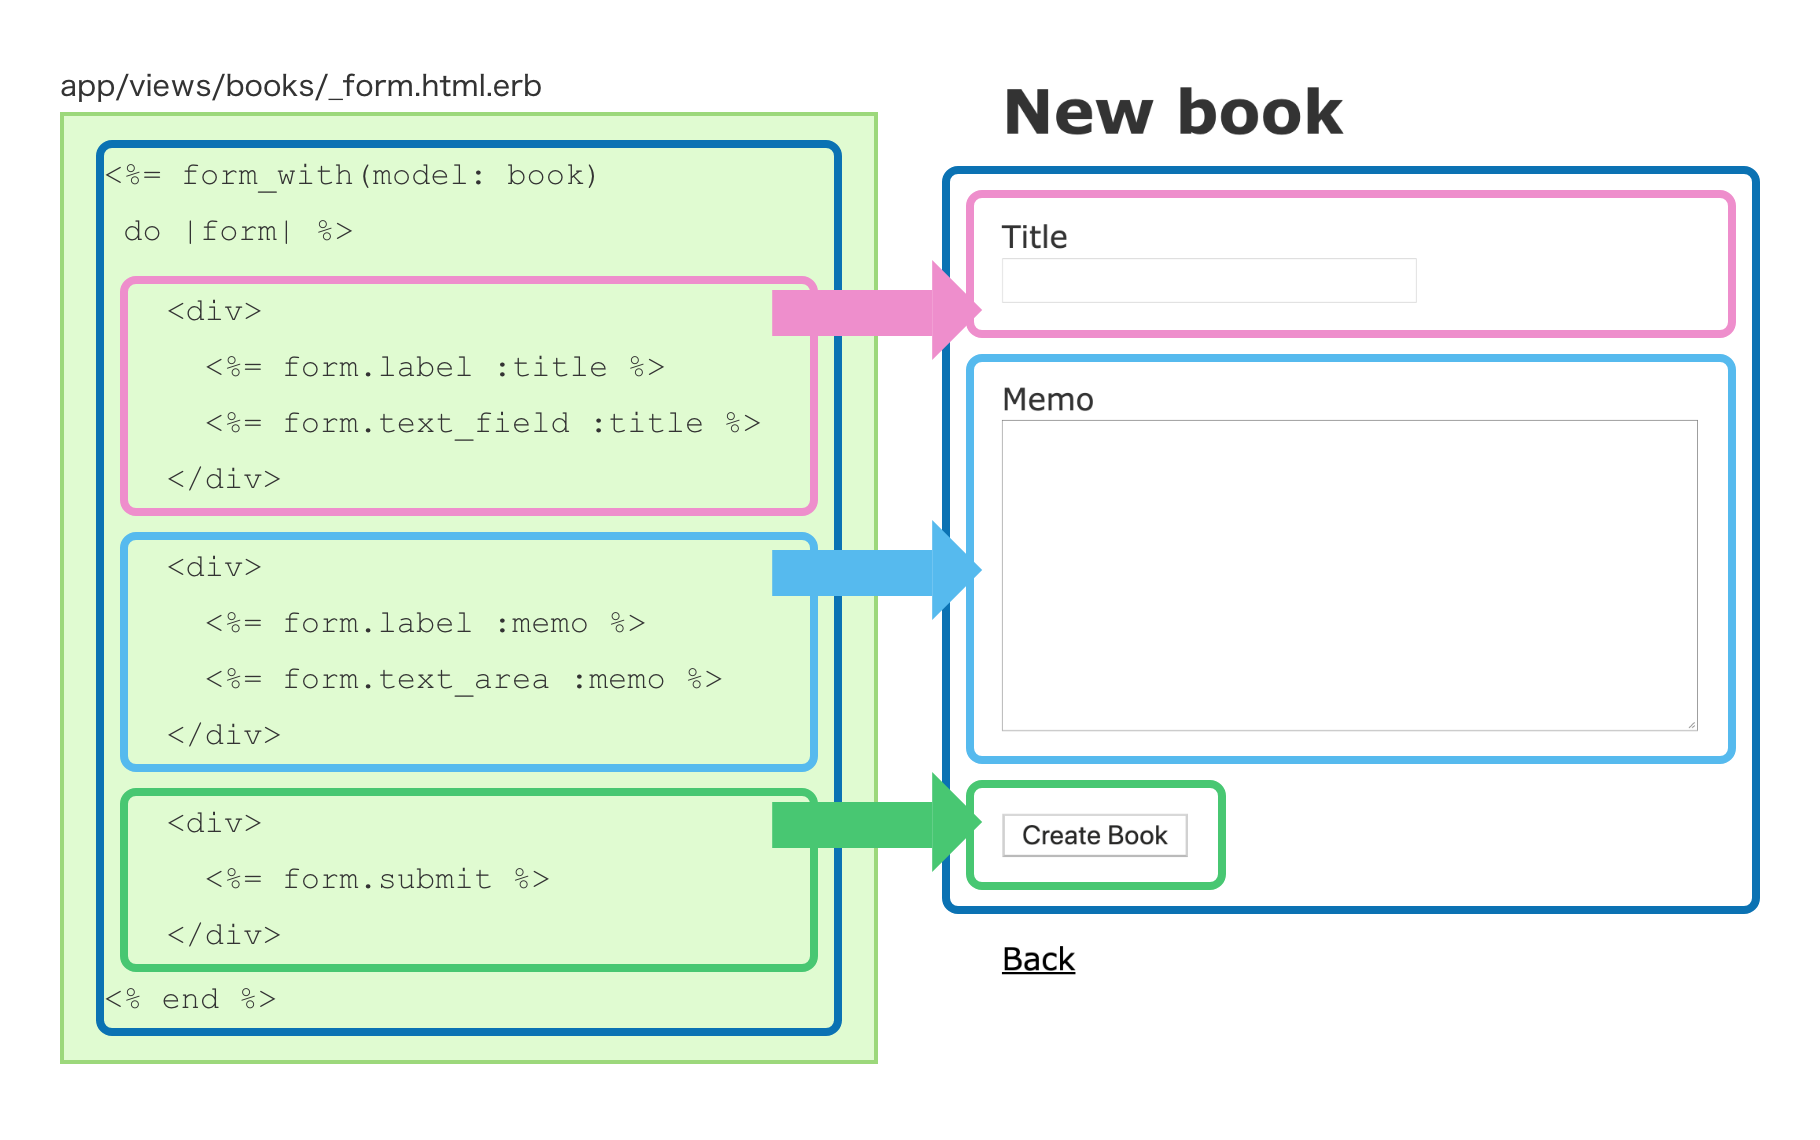
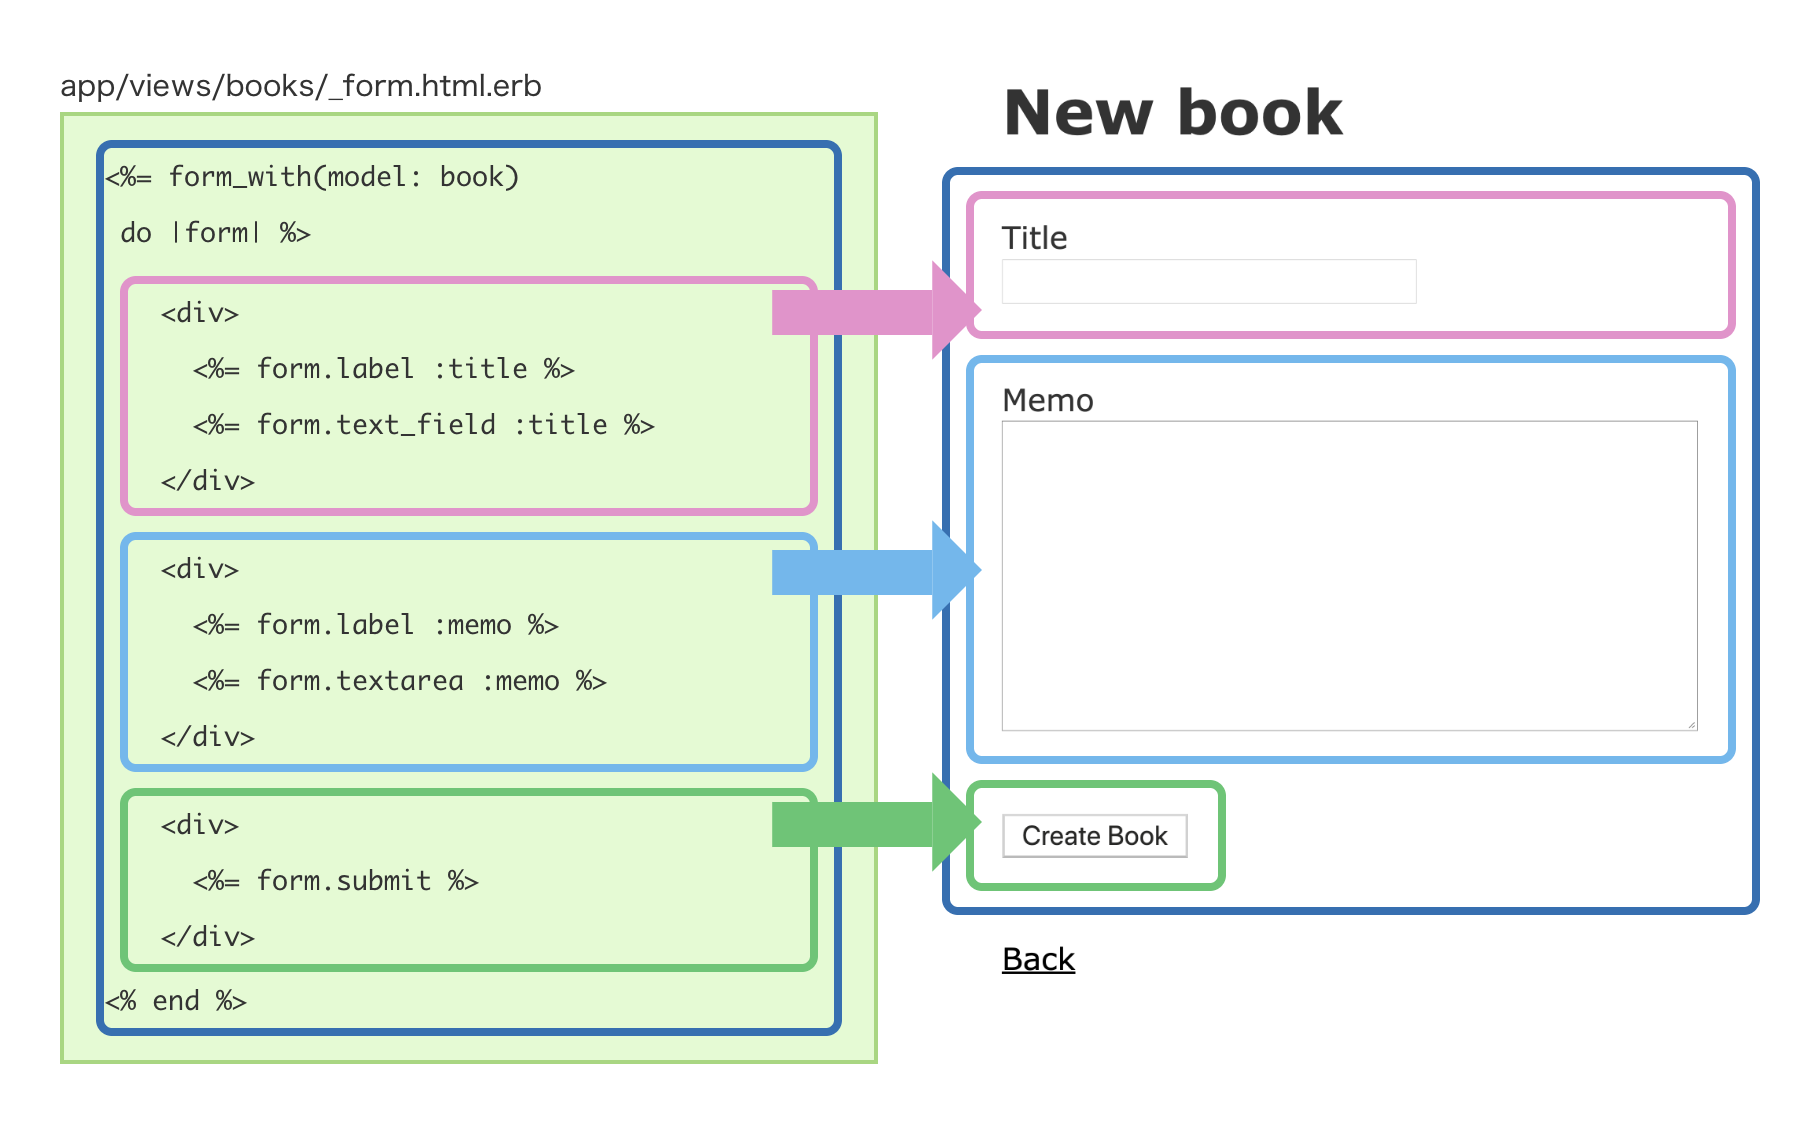
Version up to Rails8.0 in Chapter 4

diff --git a/_figures/assets/new-create/new_routes.html b/_figures/assets/new-create/new_routes.html
@@ -6,43 +6,45 @@
   <link rel="stylesheet" href="../css/style.css">
 </head>
 <body>
-<div class="wrapper">
+<div class="wrapper is-wide">
 
-<table id='route_table' class='route_table'>
-    <thead>
-      <tr>
-        <th>Helper</th>
-        <th>HTTP Verb</th>
-        <th>Path</th>
-        <th>Controller#Action</th>
-      </tr>
-      <tr class='bottom'>
-        <th>        <a data-route-helper="_path" title="Returns a relative path (without the http or domain)" href="#">Path</a> /
-          <a data-route-helper="_url" title="Returns an absolute url (with the http and domain)" href="#">Url</a>
-        </th>
-        <th>      </th>
-        <th>        <input id="search" placeholder="Path Match" type="search" name="path[]" />
-        </th>
-        <th>      </th>
-      </tr>
-    </thead>
-    <tbody class='exact_matches' id='exact_matches'>
-    </tbody>
-    <tbody class='fuzzy_matches' id='fuzzy_matches'>
-    </tbody>
-    <tbody>
-      <tr class='route_row' data-helper='path'>
+<table id='route_table' class='route_table with-margin'>
+  <thead>
+    <tr>
+      <th>Helper
+        (<a data-route-helper="_path" title="Returns a relative path (without the http or domain)" href="#">Path</a> /
+        <a data-route-helper="_url" title="Returns an absolute URL (with the http and domain)" href="#">Url</a>)
+      </th>
+      <th>HTTP Verb</th>
+      <th>Path</th>
+      <th>Controller#Action</th>
+      <th>Source Location</th>
+    </tr>
+    <tr class='bottom'>
+      <th colspan="5" id="search_container"><input id="search" placeholder="Search" type="search" name="query[]" style="width:98%;">
+      </th>
+    </tr>
+  </thead>
+  <tbody class='exact_matches' id='exact_matches'>
+  </tbody>
+  <tbody class='fuzzy_matches' id='fuzzy_matches'>
+  </tbody>
+  <tbody>
+    <tr class='route_row' data-helper='path'>
       <td data-route-name='books'>
-          books<span class='helper'>_path</span>
+        books_path
       </td>
-      <td>
+      <td class="with-description">
         GET
       </td>
-      <td data-route-path='/books(.:format)'>
+      <td data-route-path='/books(.:format)' class="with-description">
         /books(.:format)
       </td>
-      <td>
+      <td class="with-description">
         <p>books#index</p>
+      </td>
+      <td>
+        /Users/igaiga/books_app/config/routes.rb:2
       </td>
     </tr>
     <tr class='route_row' data-helper='path'>
@@ -57,13 +59,16 @@
       <td>
         <p>books#create</p>
       </td>
+      <td>
+        /Users/igaiga/books_app/config/routes.rb:2
+      </td>
     </tr>
     <tr class='route_row' data-helper='path'>
       <td data-route-name='new_book'>
-          new_book<span class='helper'>_path</span>
+        new_book_path
       </td>
       <td>
-          <span class="text__underline">GET</span>
+        <span class="text__underline">GET</span>
       </td>
       <td data-route-path='/books/new(.:format)'>
         <span class="text__underline">/books/new(.:format)</span>
@@ -71,10 +76,13 @@
       <td>
         <p><span class="text__underline">books#new</span></p>
       </td>
+      <td>
+        /Users/igaiga/books_app/config/routes.rb:2
+      </td>
     </tr>
     <tr class='route_row' data-helper='path'>
       <td data-route-name='edit_book'>
-          edit_book<span class='helper'>_path</span>
+        edit_book<span class='helper'>_path</span>
       </td>
       <td>
         GET
@@ -85,10 +93,13 @@
       <td>
         <p>books#edit</p>
       </td>
+      <td>
+        /Users/igaiga/books_app/config/routes.rb:2
+      </td>
     </tr>
     <tr class='route_row' data-helper='path'>
       <td data-route-name='book'>
-          book<span class='helper'>_path</span>
+        book_path
       </td>
       <td>
         GET
@@ -99,8 +110,11 @@
       <td>
         <p>books#show</p>
       </td>
+      <td>
+        /Users/igaiga/books_app/config/routes.rb:2
+      </td>
     </tr>
-      <tr class='route_row' data-helper='path'>
+    <tr class='route_row' data-helper='path'>
       <td data-route-name=''>
       </td>
       <td>
@@ -111,6 +125,9 @@
       </td>
       <td>
         <p>books#update</p>
+      </td>
+      <td>
+        /Users/igaiga/books_app/config/routes.rb:2
       </td>
     </tr>
     <tr class='route_row' data-helper='path'>
@@ -125,6 +142,9 @@
       <td>
         <p>books#update</p>
       </td>
+      <td>
+        /Users/igaiga/books_app/config/routes.rb:2
+      </td>
     </tr>
     <tr class='route_row' data-helper='path'>
       <td data-route-name=''>
@@ -138,7 +158,11 @@
       <td>
         <p>books#destroy</p>
       </td>
+      <td>
+        /Users/igaiga/books_app/config/routes.rb:2
+      </td>
     </tr>
+
   </tbody>
 </table>
 

diff --git a/_figures/assets/new-create/create_routes.html b/_figures/assets/new-create/create_routes.html
@@ -6,7 +6,7 @@
   <link rel="stylesheet" href="../css/style.css">
 </head>
 <body>
-<div class="wrapper">
+<div class="wrapper is-wide">
 
 <div class="box">
   <h2 class="box__headline">リクエスト</h2>
@@ -18,21 +18,20 @@
 
 <table id='route_table' class='route_table with-margin'>
     <thead>
-      <tr>
-        <th>Helper</th>
-        <th>HTTP Verb</th>
-        <th>Path</th>
-        <th>Controller#Action</th>
-      </tr>
-      <tr class='bottom'>
-        <th>        <a data-route-helper="_path" title="Returns a relative path (without the http or domain)" href="#">Path</a> /
-          <a data-route-helper="_url" title="Returns an absolute url (with the http and domain)" href="#">Url</a>
-        </th>
-        <th>      </th>
-        <th>        <input id="search" placeholder="Path Match" type="search" name="path[]" />
-        </th>
-        <th>      </th>
-      </tr>
+    <tr>
+      <th>Helper
+        (<a data-route-helper="_path" title="Returns a relative path (without the http or domain)" href="#">Path</a> /
+        <a data-route-helper="_url" title="Returns an absolute URL (with the http and domain)" href="#">Url</a>)
+      </th>
+      <th>HTTP Verb</th>
+      <th>Path</th>
+      <th>Controller#Action</th>
+      <th>Source Location</th>
+    </tr>
+    <tr class='bottom'>
+      <th colspan="5" id="search_container"><input id="search" placeholder="Search" type="search" name="query[]" style="width:98%;">
+      </th>
+    </tr>
     </thead>
     <tbody class='exact_matches' id='exact_matches'>
     </tbody>
@@ -52,6 +51,9 @@
       <td>
         <p>books#index</p>
       </td>
+      <td>
+        /Users/igaiga/books_app/config/routes.rb:2
+      </td>
     </tr>
     <tr class='route_row' data-helper='path'>
       <td data-route-name=''>
@@ -64,6 +66,9 @@
       </td>
       <td>
         <p><span class="text__underline">books#create</span></p>
+      </td>
+      <td>
+        /Users/igaiga/books_app/config/routes.rb:2
       </td>
     </tr>
     <tr class='route_row' data-helper='path'>
@@ -79,6 +84,9 @@
       <td>
         <p>books#new</p>
       </td>
+      <td>
+        /Users/igaiga/books_app/config/routes.rb:2
+      </td>
     </tr>
     <tr class='route_row' data-helper='path'>
       <td data-route-name='edit_book'>
@@ -92,6 +100,9 @@
       </td>
       <td>
         <p>books#edit</p>
+      </td>
+      <td>
+        /Users/igaiga/books_app/config/routes.rb:2
       </td>
     </tr>
     <tr class='route_row' data-helper='path'>
@@ -107,6 +118,9 @@
       <td>
         <p>books#show</p>
       </td>
+      <td>
+        /Users/igaiga/books_app/config/routes.rb:2
+      </td>
     </tr>
       <tr class='route_row' data-helper='path'>
       <td data-route-name=''>
@@ -119,6 +133,9 @@
       </td>
       <td>
         <p>books#update</p>
+      </td>
+      <td>
+        /Users/igaiga/books_app/config/routes.rb:2
       </td>
     </tr>
     <tr class='route_row' data-helper='path'>
@@ -133,6 +150,9 @@
       <td>
         <p>books#update</p>
       </td>
+      <td>
+        /Users/igaiga/books_app/config/routes.rb:2
+      </td>
     </tr>
     <tr class='route_row' data-helper='path'>
       <td data-route-name=''>
@@ -145,6 +165,9 @@
       </td>
       <td>
         <p>books#destroy</p>
+      </td>
+      <td>
+        /Users/igaiga/books_app/config/routes.rb:2
       </td>
     </tr>
   </tbody>

diff --git a/_figures/assets/new-create/new_view_form_memo_html.html b/_figures/assets/new-create/new_view_form_memo_html.html
@@ -17,7 +17,7 @@
 ...
 <div class="form__block is-memo">  &lt;div&gt;
     <%= <span class="text__accent">form.label :memo</span> %>
-    <%= <span class="text__accent">form.text_area :memo</span> %>
+    <%= <span class="text__accent">form.textarea :memo</span> %>
   &lt;/div&gt;
 </div>...
 </pre>

diff --git a/_figures/assets/new-create/new_view_form.html b/_figures/assets/new-create/new_view_form.html
@@ -20,7 +20,7 @@
   &lt;/div&gt;
 </div><div class="form__block is-memo">  &lt;div&gt;
     <%= form.label :memo %>
-    <%= form.text_area :memo %>
+    <%= form.textarea :memo %>
   &lt;/div&gt;
 </div><div class="form__block is-button">  &lt;div&gt;
     <%= form.submit %>

diff --git a/_figures/scripts/html_figures/cropper.rb b/_figures/scripts/html_figures/cropper.rb
@@ -25,12 +25,12 @@ class Cropper
         "create_flow_controller.png" => [1320, 1100],
         "create_flow_routes.png" => [1320, 1120],
         "create_overview.png" => [1820, 900],
-        "create_routes.png" => [1320, 1180],
+        "create_routes.png" => [1820, 1180],
         "new_flow.png" => [1320, 980],
         "new_flow_controller.png" => [1320, 980],
         "new_flow_routes.png" => [1320, 980],
         "new_flow_view.png" => [1320, 980],
-        "new_routes.png" => [1320, 960],
+        "new_routes.png" => [1800, 960],
         "new_view_form.png" => [1820, 1140],
         "new_view_form_memo_html.png" => [1820, 740],
         "new_view_form_screenshot.png" => [960, 920],

diff --git a/_figures/scripts/screenshots/books_app/cropper.rb b/_figures/scripts/screenshots/books_app/cropper.rb
@@ -10,7 +10,7 @@ class Cropper
         "books_index_data_1.png" => [1290, 400],
         "books_index_data_2.png" => [1290, 720],
         "books_new_blank.png" => [420, 500],
-        "books_new_data_1.png" => [420, 500],
+        "books_new_data_1.png" => [420, 580],
         "books_show_data_1.png" => [780, 290],
         "books_with_author_new.png" => [440, 600],
         "books_with_upload_created.png" => [860, 1200],
